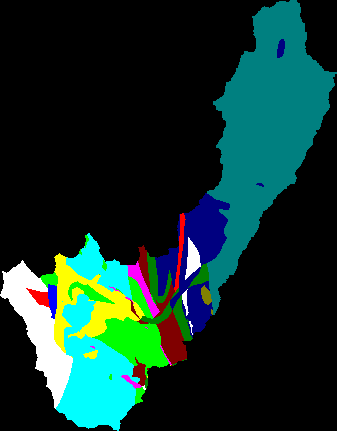
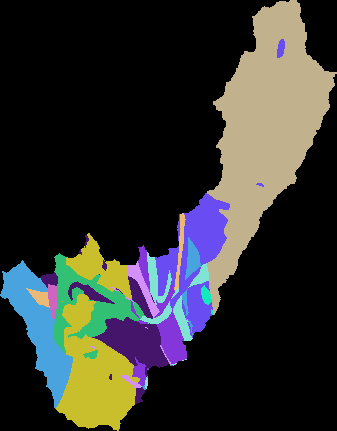
random Colors

diff --git a/marvin_test.py b/marvin_test.py
@@ -60,6 +60,11 @@ from PIL import Image
 data = numpy.zeros((431,337 , 3), dtype=numpy.uint8)
 
 colors = [[255,255,255], [255,0,0], [0,255,0], [0,0,255], [255,255,0], [0,255,255], [255,0,255], [128,0,0], [0,128,0], [0,0,128], [128,128,0], [0,128,128] ]
+colors = list(numpy.random.choice(range(256), size=20))
+
+colors = []
+for i in range(20):
+    colors.append([numpy.random.randint(low=0, high=255), numpy.random.randint(low=0, high=255), numpy.random.randint(low=0, high=255)])
 
 #data[512, 511] = [255, 0, 0]
 for i, row in df_geo.iterrows():
